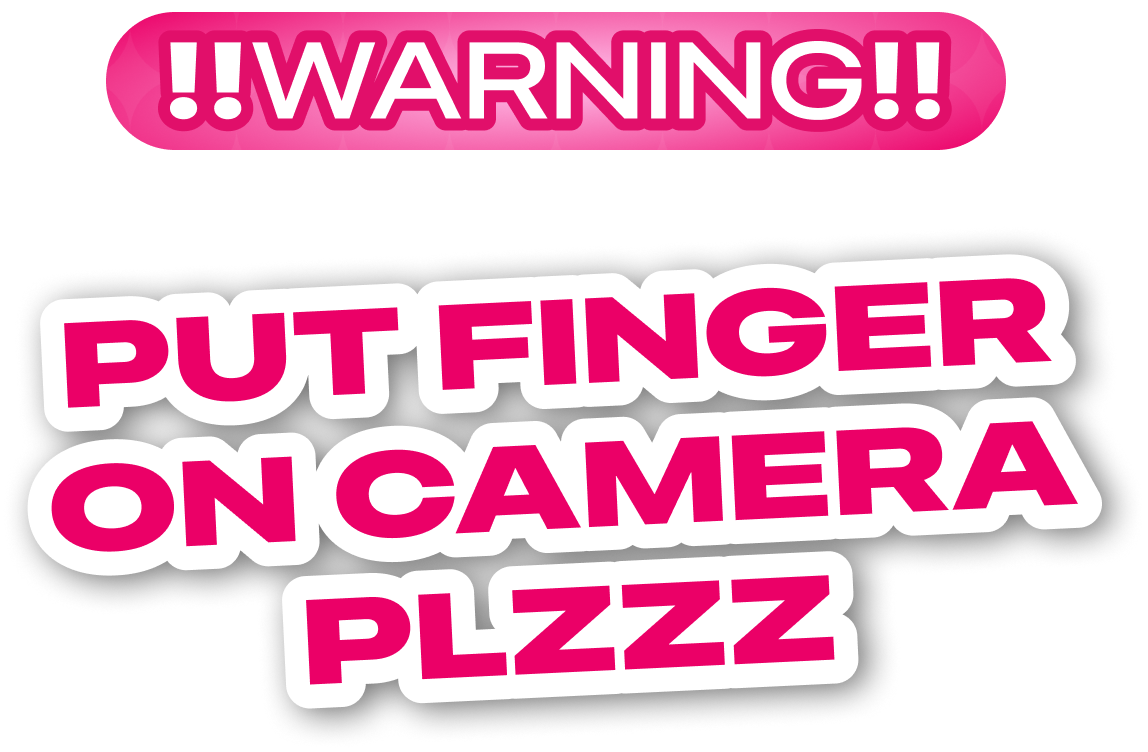
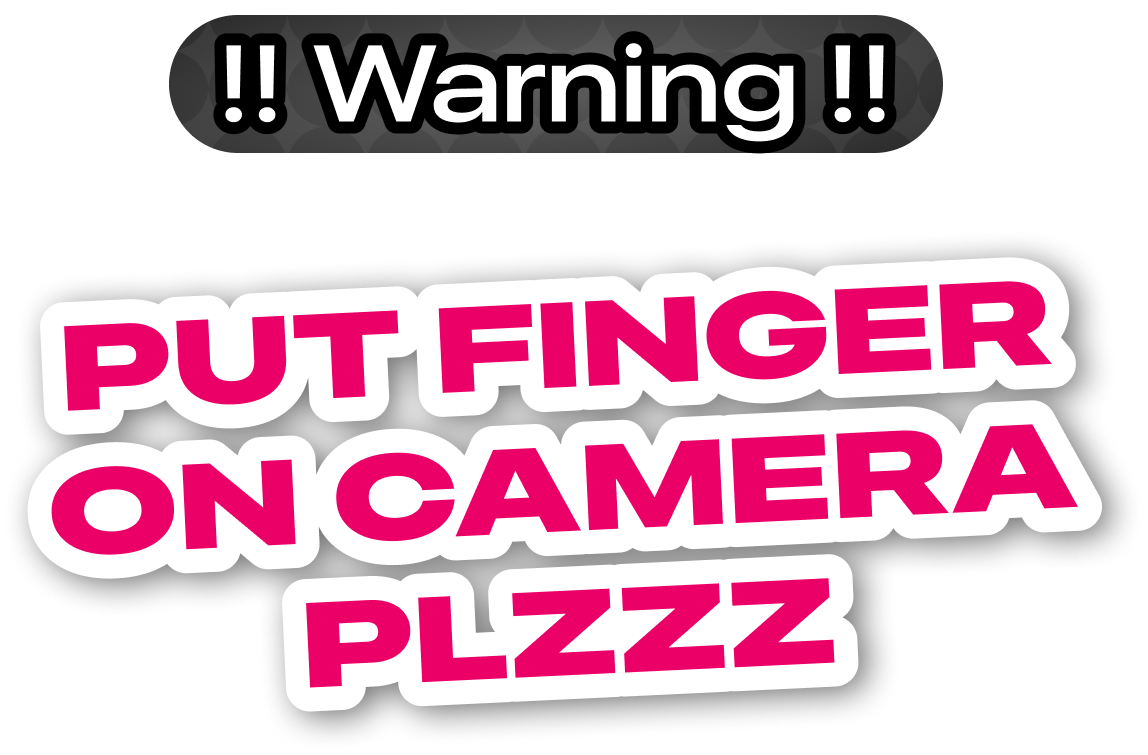
1) Editing the Join & Creat button on HomePageView; 2) Editing the X button and room list on JoinRoomView; 3) Editing the BPM and Wave placing on SuspectHoldToAnswerView

diff --git a/Sanscore/Sanscore/SanscoreiOS/Views/JoinRoomView.swift b/Sanscore/Sanscore/SanscoreiOS/Views/JoinRoomView.swift
@@ -43,15 +43,10 @@ struct JoinRoomView: View {
                                     showCodeEntry = true
                                 }
                             } label: {
-                                Text(vm.room.roomNames[host] ?? host.displayName)
-                                    .font(.system(size: 22, weight: .bold))
-                                    .foregroundStyle(.white)
-                                    .frame(maxWidth: .infinity)
-                                    .padding(.vertical, 6)
+                                RoomRowLabel(text: vm.room.roomNames[host] ?? host.displayName)
                             }
-                            .buttonStyle(.glass)
-                            .tint(.pink)
-                            .padding(.horizontal, 32)
+                            .buttonStyle(.plain)
+                            .padding(.horizontal, 24)
                         }
                     }
                     .padding(.top, 8)
@@ -79,19 +74,23 @@ struct JoinRoomView: View {
                 .transition(.move(edge: .bottom).combined(with: .opacity))
             }
         }
-        .navigationBarBackButtonHidden(true)
-        .toolbar {
-            ToolbarItem(placement: .navigationBarLeading) {
-                Button {
-                    vm.room.stopBrowsing()
-                    dismissAll()
-                } label: {
-                    Image(systemName: "chevron.left")
-                        .font(.title2.weight(.semibold))
-                        .foregroundStyle(.white)
-                }
+        // Close button — SAME construction as IdentityCameraView's corner button
+        // (.glassButton + frame 44 + padding 16/8) so every screen's corner
+        // button is identical. Overlay (not toolbar) keeps it inside the safe area.
+        .overlay(alignment: .topLeading) {
+            Button {
+                vm.room.stopBrowsing()
+                dismissAll()
+            } label: {
+                StrokedIcon(systemName: "xmark", assetName: "icon-close",
+                            size: 16, fill: Color(hex: "E40063"), stroke: .white)
+                    .frame(width: 44, height: 44)   // matches identity screen
             }
+            .glassButton()
+            .padding(.leading, 16)
+            .padding(.top, 8)
         }
+        .navigationBarBackButtonHidden(true)
     }
 
     // MARK: - Code Entry Card
@@ -239,9 +238,78 @@ struct JoinRoomView: View {
     }
 }
 
-#Preview {
+// MARK: - Room list row (Figma style)
+
+/// One room button: the room-name-placeholder art as the pill, with the room
+/// name (pink, white outline) overlaid. Fully dynamic — every discovered room
+/// renders its own placeholder with its name on top.
+private struct RoomRowLabel: View {
+    let text: String
+
+    // ─── TUNABLES ─────────────────────────────────────────────────────────
+    var fontSize: CGFloat = 22
+    // ──────────────────────────────────────────────────────────────────────
+
+    var body: some View {
+        Image("room-name-placeholder")
+            .resizable()
+            .scaledToFit()
+            .frame(maxWidth: .infinity)          // pill spans the row width
+            .overlay(
+                OutlinedText(text: text, size: fontSize)
+            )
+    }
+}
+
+/// Text drawn with a coloured fill and a solid outline (SwiftUI can't stroke a
+/// Text directly, so we stack offset copies of the outline colour behind it).
+private struct OutlinedText: View {
+    let text: String
+    var size: CGFloat
+    var fill: Color = Color(red: 0.86, green: 0.14, blue: 0.44)   // pink
+    var outline: Color = .white
+    var outlineWidth: CGFloat = 2
+
+    var body: some View {
+        let font = Font.system(size: size, weight: .heavy, design: .rounded)
+        ZStack {
+            ForEach(Array(offsets.enumerated()), id: \.offset) { _, o in
+                Text(text).font(font).foregroundStyle(outline)
+                    .offset(x: o.width, y: o.height)
+            }
+            Text(text).font(font).foregroundStyle(fill)
+        }
+    }
+
+    private var offsets: [CGSize] {
+        let w = outlineWidth
+        return [CGSize(width: -w, height: 0), CGSize(width: w, height: 0),
+                CGSize(width: 0, height: -w), CGSize(width: 0, height: w),
+                CGSize(width: -w, height: -w), CGSize(width: w, height: -w),
+                CGSize(width: -w, height: w), CGSize(width: w, height: w)]
+    }
+}
+
+#Preview("Empty (no rooms found)") {
     NavigationStack {
         JoinRoomView(vm: GameViewModel(), dismissAll: {})
+    }
+}
+
+// Rooms-available preview: inject a few fake nearby rooms so the list renders
+// with no real peers around. foundRooms/roomNames are plain vars on RoomService,
+// so we can seed them here. Tweak RoomRowLabel and see it live on these.
+#Preview("Rooms available") {
+    let vm = GameViewModel()
+    let hosts = [
+        (MCPeerID(displayName: "host-alpha"),   "Room Alpha"),
+        (MCPeerID(displayName: "host-beta"),    "Room Beta"),
+        (MCPeerID(displayName: "host-charlie"), "Room Charlie")
+    ]
+    vm.room.foundRooms = hosts.map(\.0)
+    vm.room.roomNames = Dictionary(uniqueKeysWithValues: hosts.map { ($0.0, $0.1) })
+    return NavigationStack {
+        JoinRoomView(vm: vm, dismissAll: {})
     }
 }
 #endif

diff --git a/Sanscore/Sanscore/SanscoreiOS/Views/HomePageView.swift b/Sanscore/Sanscore/SanscoreiOS/Views/HomePageView.swift
@@ -21,42 +21,38 @@ struct RoomSetupView: View {
                     .resizable()
                     .ignoresSafeArea()
 
-                VStack(spacing: 20) {
+                VStack(spacing: 5) {
                     Spacer()
 
                     // Logo — centered in upper half
-                    Image("sus-meter-2")
+                    Image("sus-meter-new")
                         .resizable()
                         .scaledToFit()
                         .frame(width: 300)
 
-                    // JOIN button
+                    // JOIN button (asset art — text is baked in)
                     Button {
                         vm.startBrowsing()
                         showBrowser = true
                     } label: {
-                        Text("JOIN")
-                            .font(.system(size: 28, weight: .bold))
-                            .foregroundStyle(.white)
+                        Image("join-button-new")
+                            .resizable()
+                            .scaledToFit()
                             .frame(maxWidth: .infinity)
-                            .padding(.vertical, 6)
                     }
-                    .buttonStyle(.glass)
-                    .tint(.pink)
+                    .buttonStyle(.plain)
                     .padding(.horizontal, 32)
 
-                    // CREATE button
+                    // CREATE button (asset art — text is baked in)
                     Button {
                         vm.createRoom()
                     } label: {
-                        Text("CREATE")
-                            .font(.system(size: 28, weight: .bold))
-                            .foregroundStyle(.white)
+                        Image("create-button-new")
+                            .resizable()
+                            .scaledToFit()
                             .frame(maxWidth: .infinity)
-                            .padding(.vertical, 6)
                     }
-                    .buttonStyle(.glass)
-                    .tint(.pink)
+                    .buttonStyle(.plain)
                     .padding(.horizontal, 32)
 
                     Spacer()

diff --git a/Sanscore/Sanscore/SanscoreiOS/Views/SuspectHoldToAnswerView.swift b/Sanscore/Sanscore/SanscoreiOS/Views/SuspectHoldToAnswerView.swift
@@ -63,11 +63,16 @@ struct SuspectHoldToAnswerView: View {
                 .scaledToFill()
                 .ignoresSafeArea()
 
-            // Full-width ECG line, pinned near the bottom behind the BPM readout.
-            ECGLine(bpm: bpm)
-                .frame(height: 150)
+            // Full-width ECG line, positioned so it runs THROUGH the BPM readout
+            // (drawn before the VStack -> it sits underneath the number). Dimmed
+            // so it reads as a faint backdrop, not a bright competing line.
+            // The line is drawn at the vertical middle of this frame, so
+            // padding.bottom + height/2 = distance of the line from the bottom.
+            // ~74pt matches where the "69 / BPM" block sits.
+            ECGLine(bpm: bpm, color: .white.opacity(0.22))
+                .frame(height: 120)
                 .frame(maxWidth: .infinity, maxHeight: .infinity, alignment: .bottom)
-                .padding(.bottom, 66)              // lift so the number sits on it
+                .padding(.bottom, 44)              // line ~74pt up = over the number
                 .ignoresSafeArea(edges: .horizontal)
                 .allowsHitTesting(false)
 
@@ -111,7 +116,7 @@ struct SuspectHoldToAnswerView: View {
                         .font(.system(size: 15, weight: .semibold, design: .rounded))
                 }
                 .foregroundStyle(.white)
-                .padding(.bottom, 40)
+                .padding(.bottom, 70)
             }
         }
         .animation(.easeInOut, value: isEnabled)
